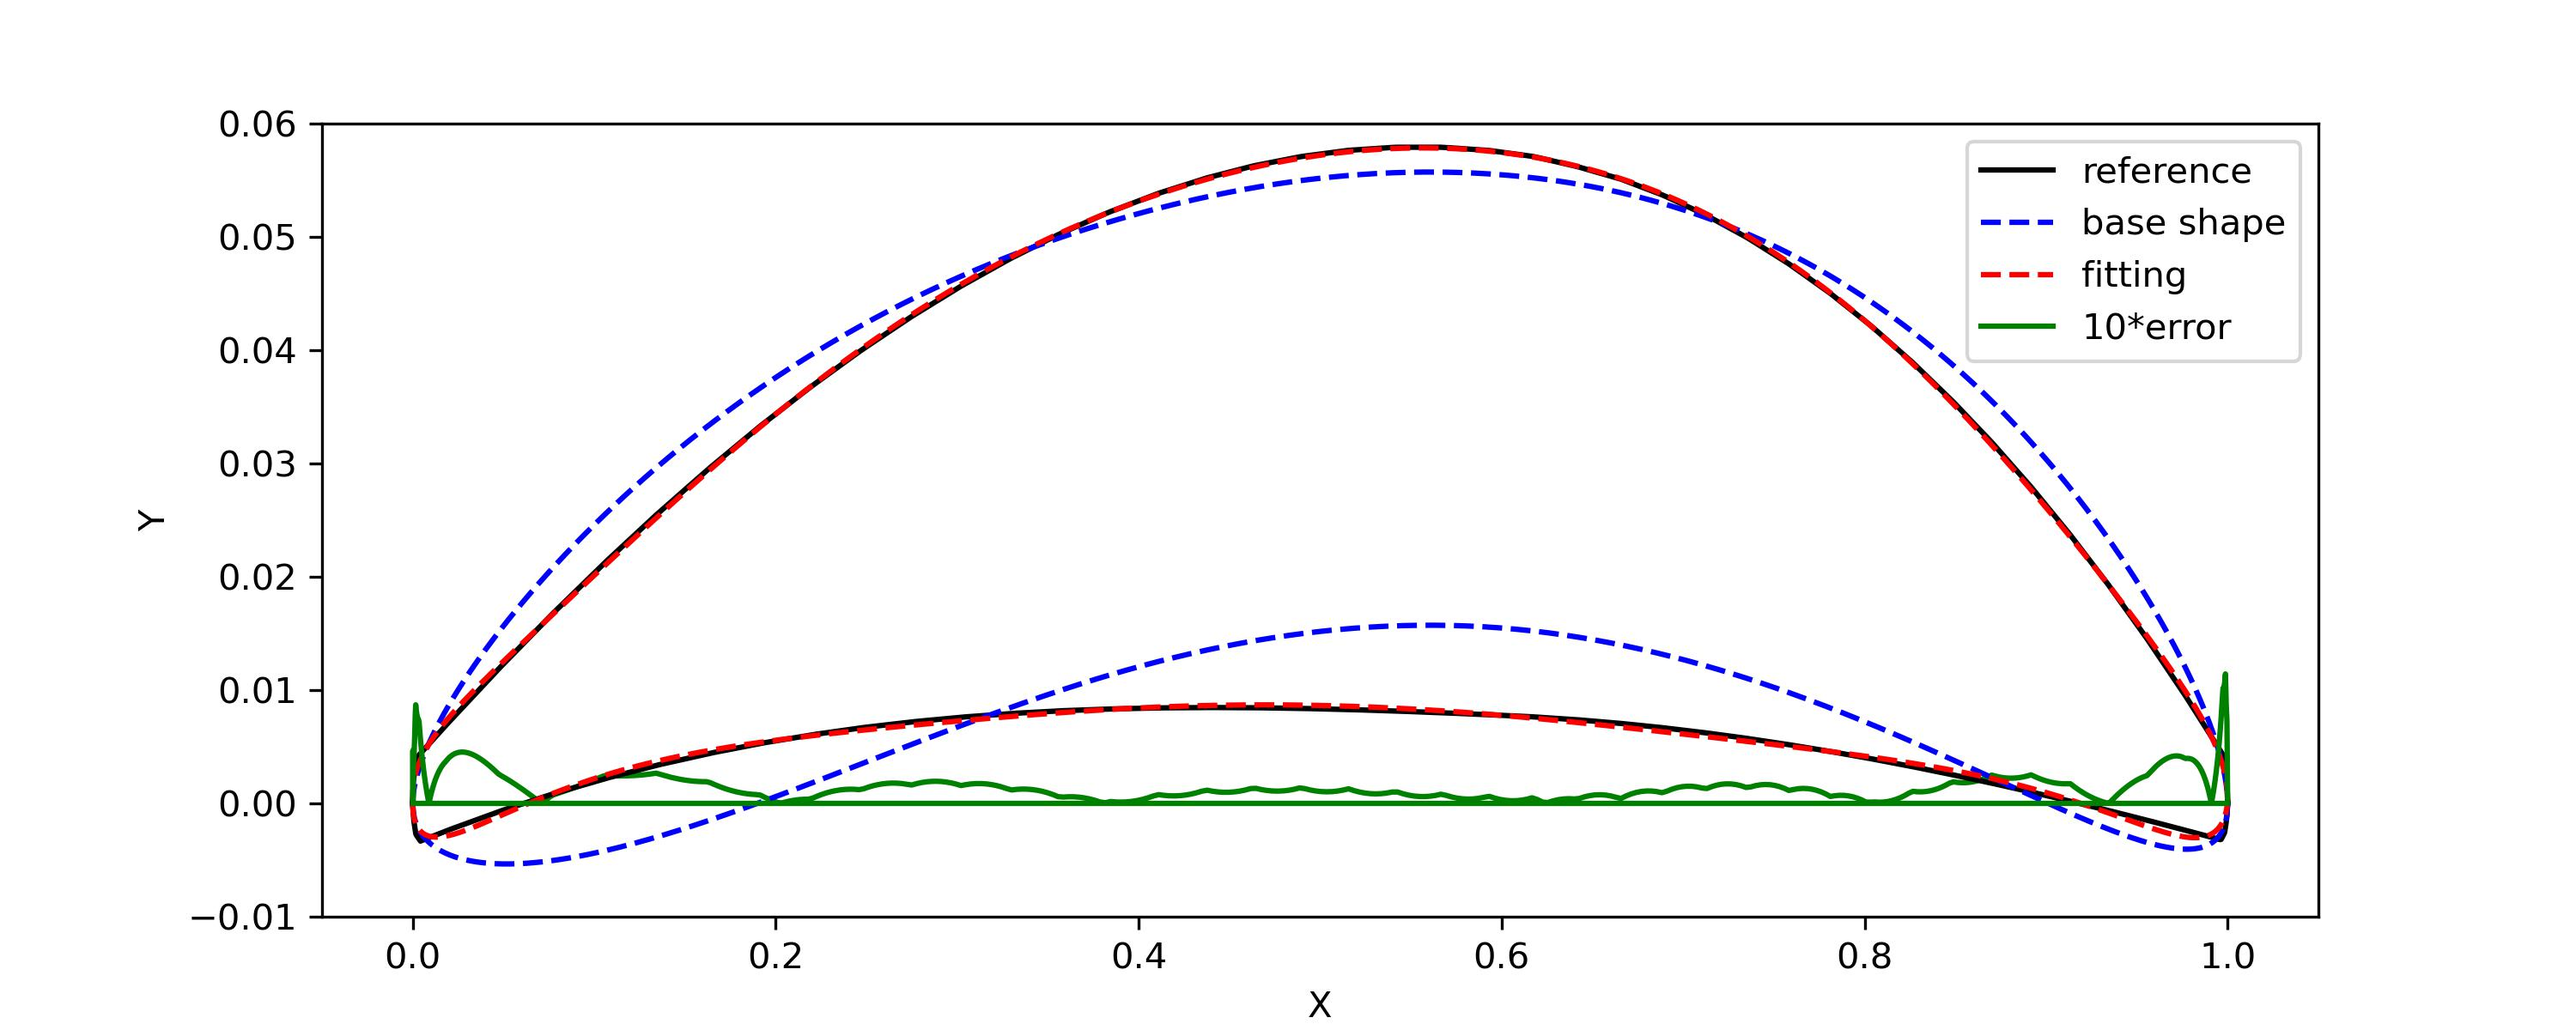
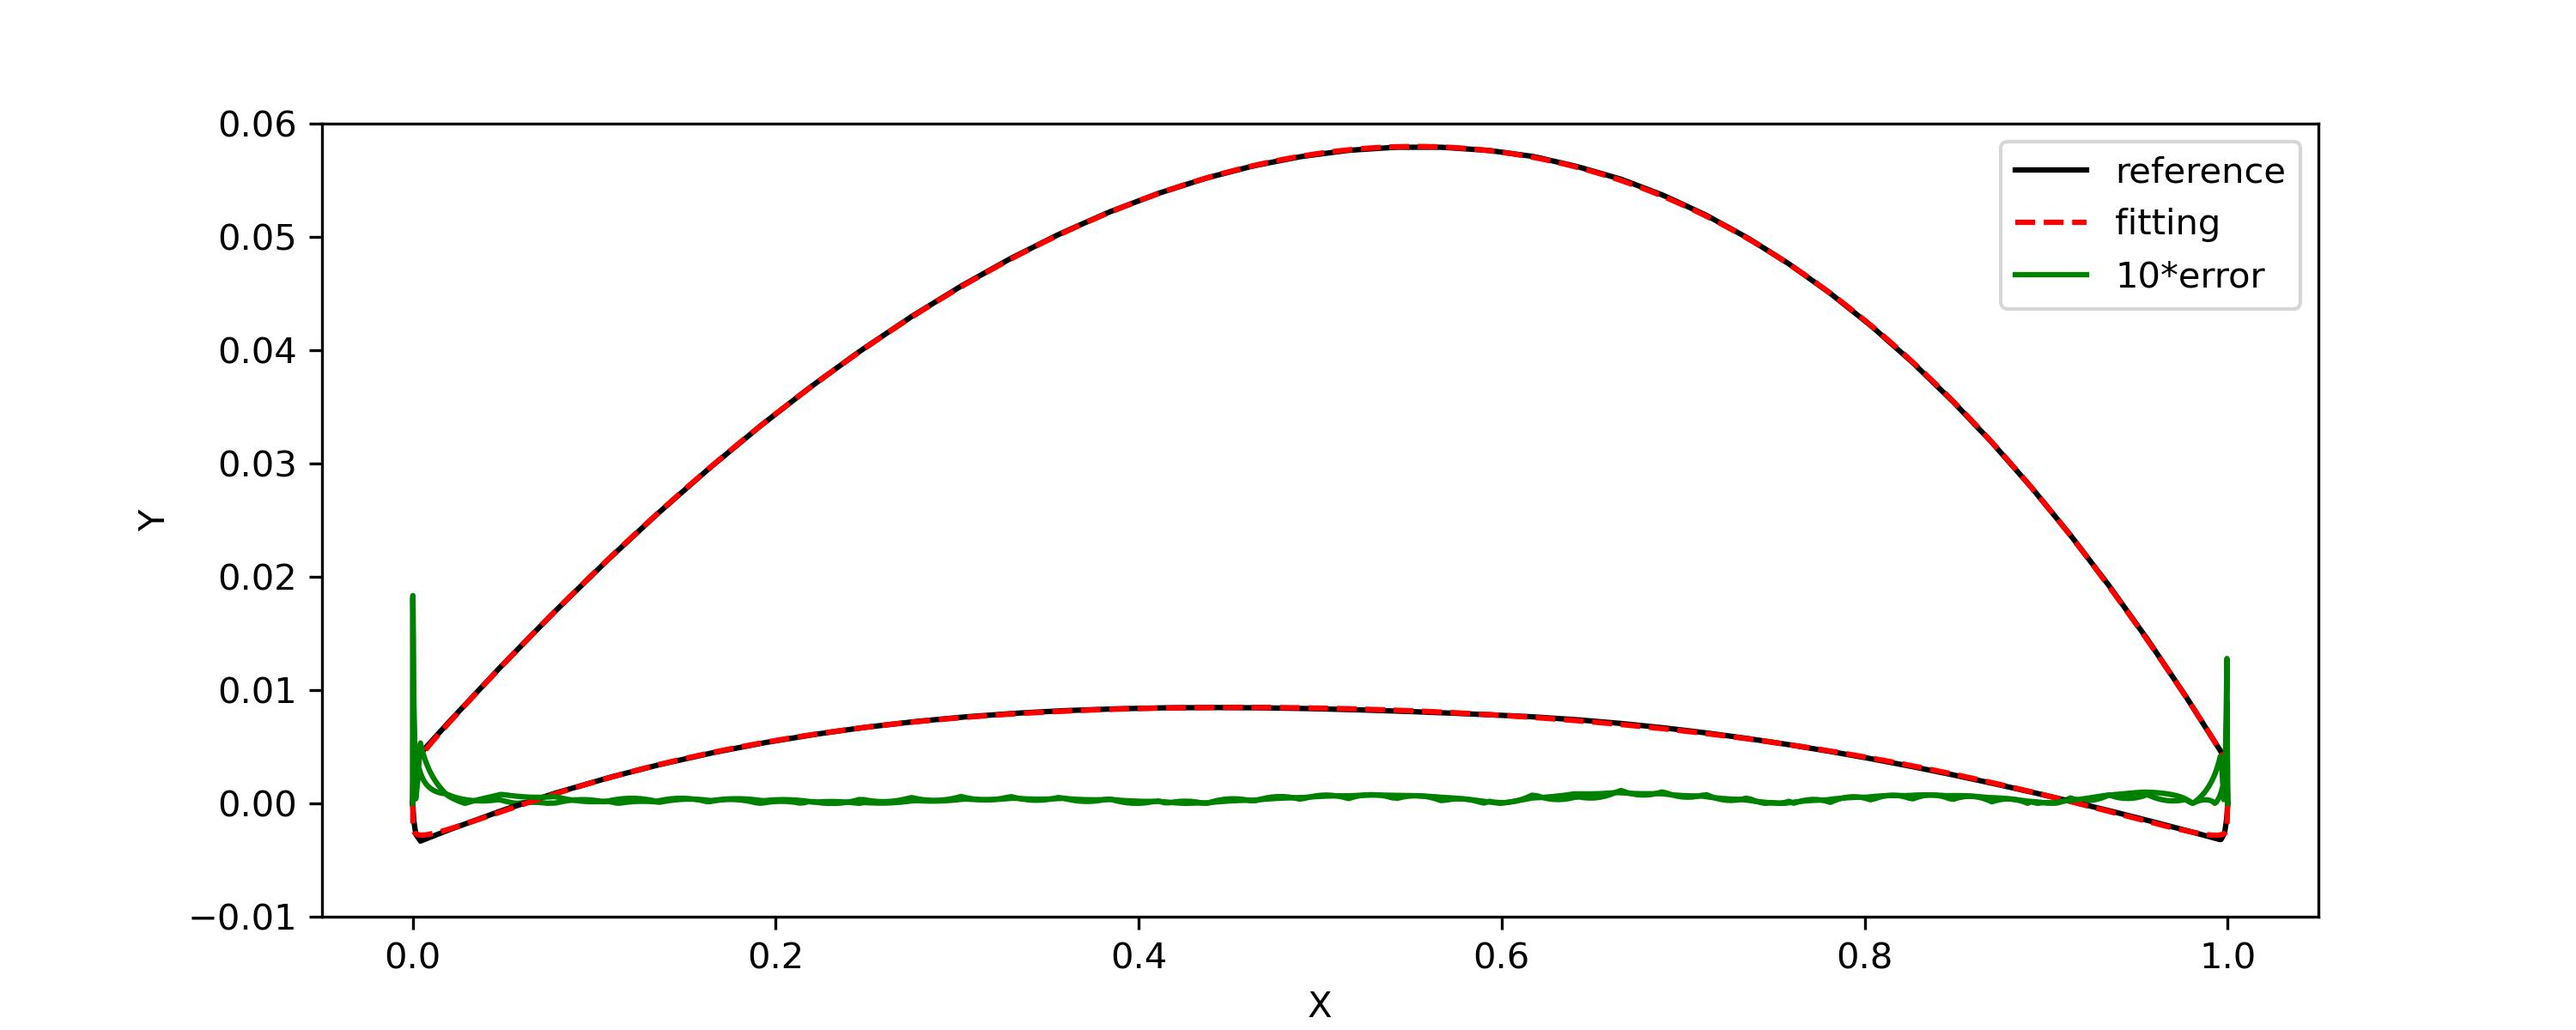
tutorial fitting blade

diff --git a/docs/tutorial/section.py b/docs/tutorial/section.py
@@ -33,9 +33,9 @@ def base_shape():
     plt.savefig('figures/base_shape.jpg', dpi=300)
     plt.close()
 
-def fitting_blade():
+def fitting_blade_RoundTip():
     '''
-    Fitting blade (DFVLR L030-4)
+    Fitting blade (DFVLR L030-4) with RoundTipSection
     '''
     
     from scipy.interpolate import interp1d
@@ -79,17 +79,17 @@ def fitting_blade():
 
     BaseLERatio     = 0.4
     BaseTERatio     = 0.4
-    BaseAbsThick    = 0.04
+    BaseAbsThick    = 0.03
     BaseRelRadiusLE = 0.02
-    BaseRelRadiusTE = 0.03
+    BaseRelRadiusTE = 0.04
     
     BaseAlphaLE = 6
     BaseAlphaTE = -10
 
-    x_, y_ = RoundTipSection.base_shape(xx, 0.0, 1.0, BaseLERatio, BaseTERatio, 
+    _, y_base = RoundTipSection.base_shape(xx, 0.0, 1.0, BaseLERatio, BaseTERatio, 
                                         BaseRelRadiusLE, BaseRelRadiusTE, BaseAbsThick/2.0, i_split=None)
     
-    dy_ = RoundTipSection.base_camber(xx, a_LE=BaseAlphaLE, a_TE=BaseAlphaTE)
+    dy_base = RoundTipSection.base_camber(xx, a_LE=BaseAlphaLE, a_TE=BaseAlphaTE)
 
 
     #* ==================================================================
@@ -97,37 +97,37 @@ def fitting_blade():
     xn1 = 0.1
     xn2 = 0.1
 
-    yu_ = yu - y_ + dy_
-    yl_ = yl + y_ + dy_
+    yu_remain = yu - ( y_base + dy_base)
+    yl_remain = yl - (-y_base + dy_base)
     
-    cst_u, cst_l = cst_foil_fit(xx, yu_, xx, yl_, n_cst=7, xn1=xn1, xn2=xn2)
+    cst_u, cst_l = cst_foil_fit(xx, yu_remain, xx, yl_remain, n_cst=7, xn1=xn1, xn2=xn2)
     
     np.set_printoptions(formatter={'float': '{: 0.4f}'.format}, linewidth=200)
     print(cst_u)
     print(cst_l)
     print()
     
-    _, yuc, ylc, _, _ = cst_foil(xx.shape[0], cst_u, cst_l, xx, t=None, xn1=xn1, xn2=xn2)
+    _, yu_cst, yl_cst, _, _ = cst_foil(xx.shape[0], cst_u, cst_l, xx, t=None, xn1=xn1, xn2=xn2)
 
     plt.figure(figsize=(10,4))
     plt.plot(xx, yu, 'k')
-    plt.plot(xx, y_+dy_, 'b--')
-    plt.plot(xx, yuc + y_ - dy_, 'r--')
-    plt.plot(xx, 10*np.abs(yu_-yuc), 'g')
+    plt.plot(xx, y_base+dy_base, 'b--')
+    plt.plot(xx, yu_cst + y_base + dy_base, 'r--')
+    plt.plot(xx, 10*np.abs(yu_remain-yu_cst), 'g')
     
     plt.legend(['reference', 'base shape', 'fitting', '10*error'])
     
     plt.plot(xx, yl, 'k')
-    plt.plot(xx,-y_+dy_, 'b--')
-    plt.plot(xx, ylc - y_ - dy_, 'r--')
-    plt.plot(xx, 10*np.abs(ylc-ylc), 'g')
+    plt.plot(xx,-y_base+dy_base, 'b--')
+    plt.plot(xx, yl_cst - y_base + dy_base, 'r--')
+    plt.plot(xx, 10*np.abs(yl_remain-yl_cst), 'g')
     
     plt.xlim((-0.05, 1.05))
     plt.ylim((-0.01, 0.06))
     plt.xlabel('X')
     plt.ylabel('Y')
     
-    plt.savefig('figures/fitting_blade.jpg', dpi=300)
+    plt.savefig('figures/fitting_blade_RoundTipSection.jpg', dpi=300)
     plt.close()
 
 
@@ -136,5 +136,5 @@ if __name__ == '__main__':
 
     base_shape()
     
-    fitting_blade()
+    fitting_blade_RoundTip()
     

diff --git a/docs/tutorial/curve_2d.py b/docs/tutorial/curve_2d.py
@@ -48,7 +48,7 @@ def cst_base_function():
         x, y = cst_curve(101, cst, xn1=0.5, xn2=0.5)
         plt.plot(x, y)
 
-    plt.text(0.2, 0.17, 'xn1=0.5, xn2=0.9', fontsize=12)
+    plt.text(0.2, 0.17, 'xn1=0.5, xn2=0.5', fontsize=12)
     plt.xlabel('X')
     plt.ylabel('Y')
     plt.xlim((-0.05, 1.05))
@@ -221,6 +221,73 @@ def fitting_airfoil():
     plt.xlabel('X')
     plt.savefig('figures/fitting_airfoil.jpg', dpi=300)
     plt.close()
+    
+def fitting_blade():
+    '''
+    Fitting blade (DFVLR L030-4)
+    '''
+    
+    from scipy.interpolate import interp1d
+    from cst_modeling.section import dist_clustcos, cst_foil_fit, cst_foil
+
+    with open('data/blade-ref.dat', 'r') as f:
+        
+        lines = f.readlines()
+
+        xu = []
+        yu = []
+        xl = []
+        yl = []
+        
+        i = 0
+        for line in lines[2:]:
+            
+            line = line.split()
+            
+            if len(line)==0:
+                continue
+            elif len(line)>2:
+                i += 1
+                continue
+                    
+            if i%2==1:
+                xu.append(float(line[0]))
+                yu.append(float(line[1]))
+            else:
+                xl.append(float(line[0]))
+                yl.append(float(line[1]))
+
+        xx = dist_clustcos(501)
+        fu = interp1d(xu, yu, kind='linear')
+        fl = interp1d(xl, yl, kind='linear')
+        yu = fu(xx)
+        yl = fl(xx)
+
+    xn1 = 0.1
+    xn2 = 0.1
+
+    cst_u, cst_l = cst_foil_fit(xx, yu, xx, yl, n_cst=7, xn1=xn1, xn2=xn2)
+
+    _, yu_cst, yl_cst, _, _ = cst_foil(xx.shape[0], cst_u, cst_l, xx, t=None, xn1=xn1, xn2=xn2)
+
+    plt.figure(figsize=(10,4))
+    plt.plot(xx, yu, 'k')
+    plt.plot(xx, yu_cst, 'r--')
+    plt.plot(xx, 10*np.abs(yu-yu_cst), 'g')
+    
+    plt.legend(['reference', 'fitting', '10*error'])
+    
+    plt.plot(xx, yl, 'k')
+    plt.plot(xx, yl_cst, 'r--')
+    plt.plot(xx, 10*np.abs(yl-yl_cst), 'g')
+    
+    plt.xlim((-0.05, 1.05))
+    plt.ylim((-0.01, 0.06))
+    plt.xlabel('X')
+    plt.ylabel('Y')
+    
+    plt.savefig('figures/fitting_blade.jpg', dpi=300)
+    plt.close()
 
 def fitting_curve():
     '''
@@ -278,6 +345,8 @@ if __name__ == '__main__':
     curve_curvature()
     
     fitting_airfoil()
+    
+    fitting_blade()
     
     fitting_curve()
     

diff --git a/docs/source/tutorial/section.rst b/docs/source/tutorial/section.rst
@@ -114,17 +114,19 @@ Compared with `Section`, several additional parameters are needed:
 - angle `aLE` (deg) of the slope at leading edge, i.e., :math:`dy/dx`;
 
 
-Fitting blade
-----------------------
+Fitting blade with RoundTipSection
+------------------------------------
 
-Given a blade (round tips at both ends), you can use `RoundTipSection` for fitting.
+Given a blade (round tips at both ends), you also can use `RoundTipSection` for fitting.
+Compared with the direct use of CST fitting (:numref:`fitting_blade`), 
+`RoundTipSection` is more suitable for thin plate.
 
-.. _fitting_blade:
-.. figure:: ../../tutorial/figures/fitting_blade.jpg
+.. _fitting_blade_RoundTipSection:
+.. figure:: ../../tutorial/figures/fitting_blade_RoundTipSection.jpg
     :width: 90 %
     :align: center
 
-    Fitting blade
+    Fitting blade with RoundTipSection
 
 .. code-block:: python
     :linenos:

diff --git a/docs/source/tutorial/curve_2d.rst b/docs/source/tutorial/curve_2d.rst
@@ -106,6 +106,25 @@ Given an airfoil, you can use CST method for fitting.
     Fitting airfoil with CST
 
 
+Fitting blade
+----------------------
+
+Given a blade (round tips at both ends), you can use CST method for fitting.
+The CST parameters `xn1, xn2` need to be adjusted.
+
+.. _fitting_blade:
+.. figure:: ../../tutorial/figures/fitting_blade.jpg
+    :width: 90 %
+    :align: center
+
+    Fitting blade
+
+.. code-block:: python
+    :linenos:
+
+    cst_u, cst_l = cst_foil_fit(xx, yu, xx, yl, n_cst=7, xn1=0.1, xn2=0.1)
+
+
 Fitting curve
 ------------------------------
 

diff --git a/docs/source/tutorial/surface.rst b/docs/source/tutorial/surface.rst
@@ -4,6 +4,11 @@ Surface
 Class: BasicSurface
 ----------------------
 
+`BasicSurface` is the parent class that generates surfaces between control sections.
+The control sections are objects of `BasicSection`. 
+The generated surface is like the `swept surface` in CATIA.
+
+
 
 Class: OpenSurface
 ----------------------
